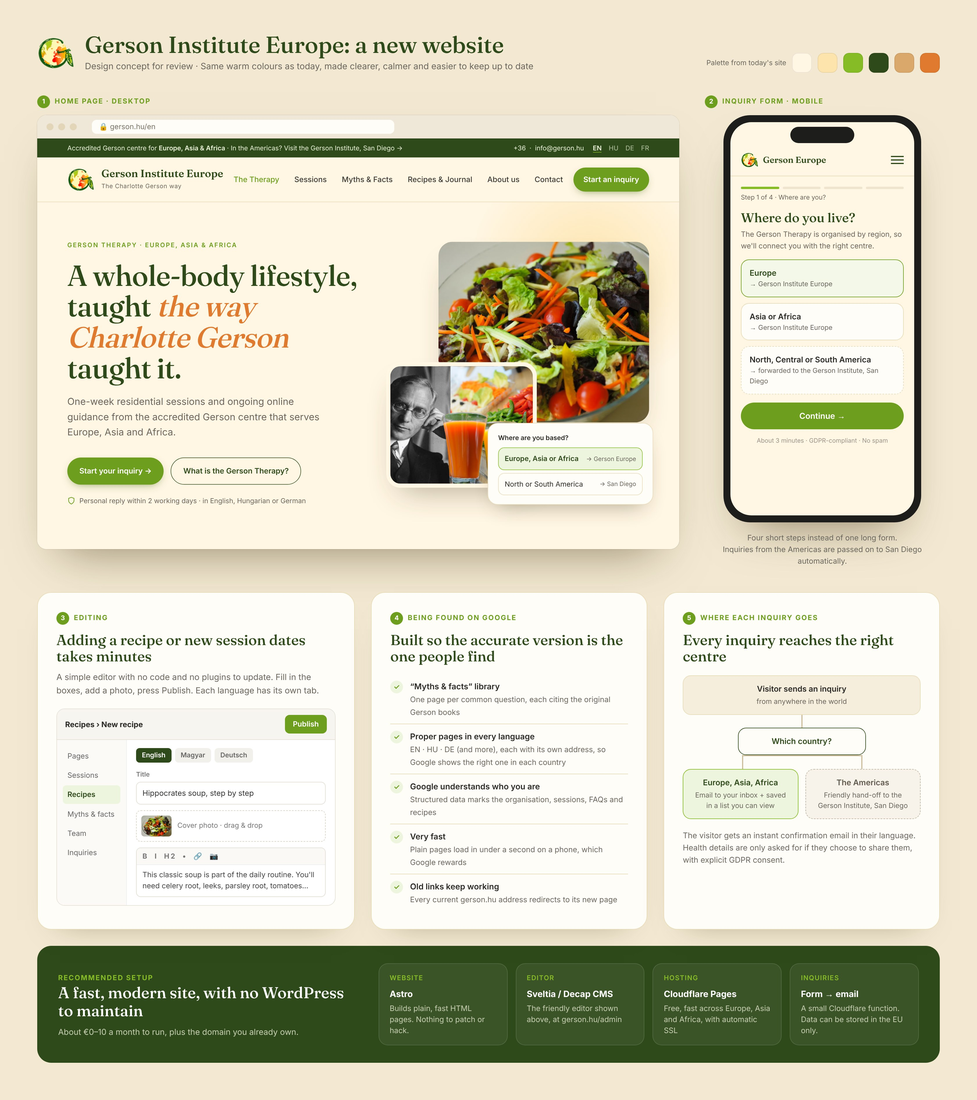
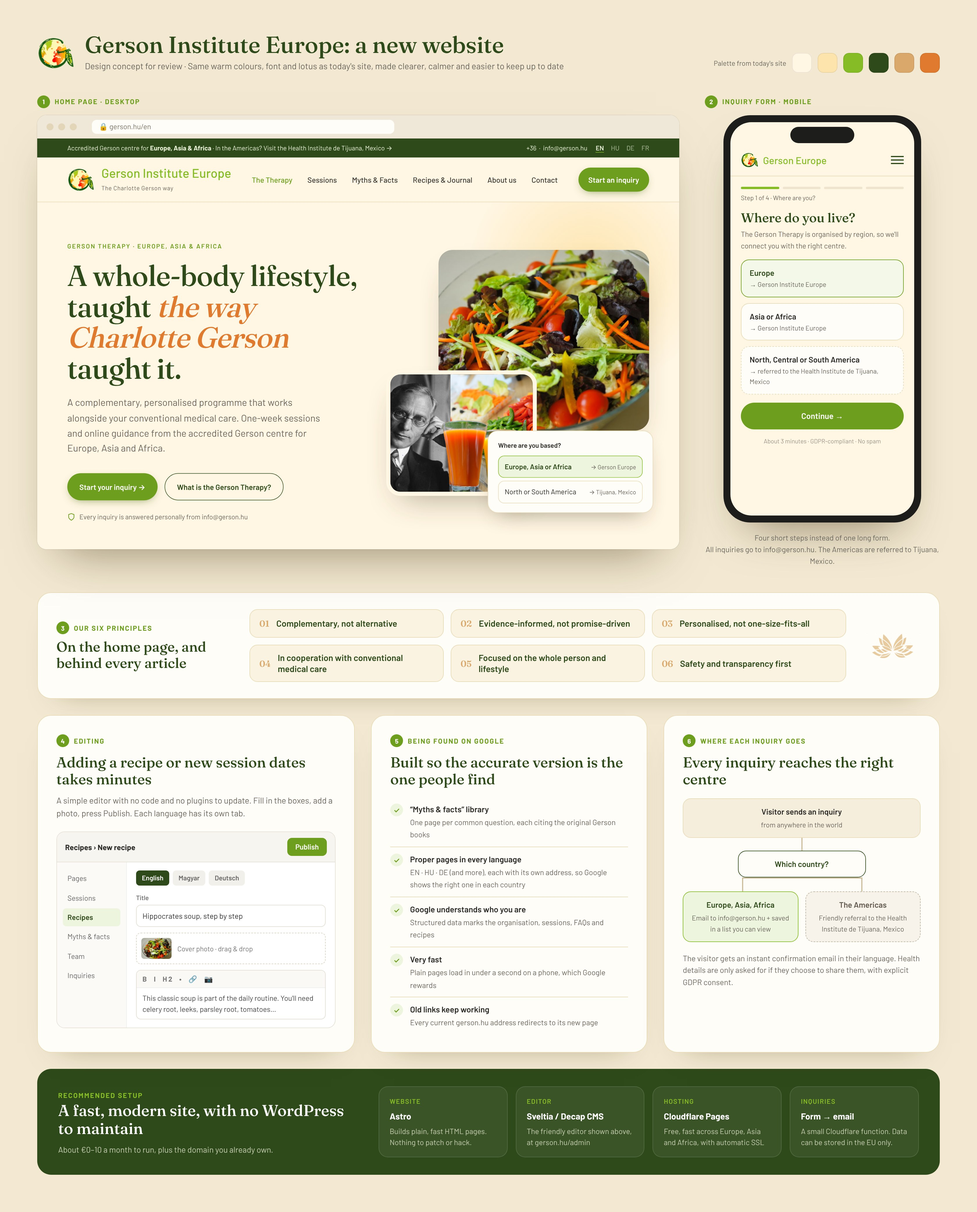
Concept: add six guiding principles, sessions block, Tijuana routing
- New 'Our principles' section on the home page and board
- Inquiries go to info@gerson.hu; the Americas are referred to the
  Health Institute de Tijuana, Mexico
- Sessions block with what's included and admission details
- Body font switched to Barlow to match the current site

Claude-Session: https://claude.ai/code/session_0158u3zLpzMPwJ2PHPRNx5aD

Changed region(s): [[0.0312, 0.0312, 0.9688, 0.9672], [0.8438, 0.0312, 0.9688, 0.0624]]

diff --git a/concept/home.html b/concept/home.html
@@ -4,9 +4,9 @@
 <meta charset="utf-8">
 <meta name="viewport" content="width=device-width, initial-scale=1">
 <title>Gerson Institute Europe — The Gerson Therapy, the Charlotte Gerson way</title>
-<meta name="description" content="The accredited Gerson centre for Europe, Asia and Africa. One-week residential sessions and online guidance, following the Gerson Therapy as taught by Charlotte Gerson.">
+<meta name="description" content="The accredited Gerson centre for Europe, Asia and Africa. A complementary, personalised Gerson lifestyle programme, as taught by Charlotte Gerson, in cooperation with conventional medical care.">
 <link rel="preconnect" href="https://fonts.googleapis.com">
-<link href="https://fonts.googleapis.com/css2?family=Fraunces:opsz,wght@9..144,400;9..144,500;9..144,600&family=Inter:wght@400;500;600&display=swap" rel="stylesheet">
+<link href="https://fonts.googleapis.com/css2?family=Fraunces:opsz,wght@9..144,400;9..144,500;9..144,600&family=Barlow:wght@400;500;600;700&display=swap" rel="stylesheet">
 <style>
   :root{
     --cream:#FFF6E3;      /* current site background, softened */
@@ -24,7 +24,7 @@
     --white:#FFFDF8;
   }
   *{box-sizing:border-box;margin:0;padding:0}
-  body{background:var(--cream);color:var(--ink);font:16px/1.6 Inter,system-ui,sans-serif;width:1280px}
+  body{background:var(--cream);color:var(--ink);font:16.5px/1.6 Barlow,system-ui,sans-serif;width:1280px}
   h1,h2,h3,.serif{font-family:Fraunces,Georgia,serif;font-weight:500;letter-spacing:-.01em}
   a{color:inherit;text-decoration:none}
   .wrap{width:1160px;margin:0 auto}
@@ -43,7 +43,7 @@
   nav .wrap{display:flex;align-items:center;justify-content:space-between;height:88px}
   .brand{display:flex;align-items:center;gap:14px}
   .brand img{width:54px;height:54px}
-  .brand b{font-family:Fraunces,serif;font-weight:600;font-size:21px;color:var(--leaf-deep);display:block;line-height:1.1}
+  .brand b{font-family:Barlow,sans-serif;font-weight:500;font-size:25px;color:var(--leaf-bright);display:block;line-height:1.1}
   .brand small{font-size:12px;color:var(--muted);letter-spacing:.04em}
   .menu{display:flex;gap:30px;font-size:15px;font-weight:500;color:#3d3b35}
   .menu .act{color:var(--leaf)}
@@ -83,6 +83,32 @@
   .sec-head h2{font-size:42px;line-height:1.1;color:var(--leaf-deep);margin-top:10px;max-width:640px}
   .sec-head p{max-width:420px;color:var(--muted)}
 
+  /* principles */
+  .principles{padding:84px 0 70px;text-align:center}
+  .lotus-mark{width:150px;display:block;margin:0 auto 14px}
+  .p-head h2{font-size:42px;line-height:1.1;color:var(--leaf-deep);margin:10px 0 10px}
+  .p-head p{color:var(--muted);margin-bottom:44px}
+  .pgrid{display:grid;grid-template-columns:repeat(3,1fr);gap:20px;text-align:left}
+  .pr{display:flex;gap:18px;background:var(--white);border:1px solid var(--line);border-radius:22px;padding:26px 26px}
+  .pr h3{font-size:20px;line-height:1.2;color:var(--leaf-deep);margin-bottom:6px}
+  .pr p{font-size:15px;color:var(--muted)}
+
+  /* sessions */
+  .sessions .wrap{display:grid;grid-template-columns:1fr 1fr;gap:64px;align-items:center}
+  .sessions h2{font-size:40px;line-height:1.1;color:var(--leaf-deep);margin:10px 0 18px}
+  .s-img{position:relative;height:560px;border-radius:30px;overflow:hidden;box-shadow:0 30px 60px -34px rgba(60,50,20,.5)}
+  .s-img img{width:100%;height:100%;object-fit:cover}
+  .s-badge{position:absolute;left:22px;bottom:22px;background:var(--white);border-radius:16px;padding:14px 18px;font-size:14px;color:var(--muted)}
+  .s-badge b{display:block;color:var(--leaf-deep);font-size:16px}
+  .incl{list-style:none}
+  .incl li{padding:9px 0 9px 32px;position:relative;border-bottom:1px solid var(--line);font-size:16px}
+  .incl li:before{content:"✓";position:absolute;left:0;top:9px;width:20px;height:20px;border-radius:50%;background:#EEF5DF;color:var(--leaf);font-size:12px;font-weight:700;display:grid;place-items:center}
+  .adm{display:grid;grid-template-columns:repeat(3,1fr);gap:12px;margin-top:22px}
+  .adm div{background:var(--sand-soft);border:1px solid var(--line);border-radius:16px;padding:14px 16px}
+  .adm small{display:block;font-size:11.5px;font-weight:700;letter-spacing:.1em;text-transform:uppercase;color:var(--lotus)}
+  .adm b{display:block;font-size:18px;color:var(--leaf-deep)}
+  .adm span{font-size:13px;color:var(--muted)}
+
   /* pillars */
   .pillars{display:grid;grid-template-columns:repeat(4,1fr);gap:20px}
   .pillar{background:var(--white);border:1px solid var(--line);border-radius:22px;padding:28px 24px}
@@ -97,7 +123,7 @@
   .charlotte h2{font-size:40px;line-height:1.12;margin:12px 0 18px}
   .charlotte p{color:#D6D9C6}
   .quote{font-family:Fraunces,serif;font-style:italic;font-size:25px;line-height:1.4;border-left:3px solid var(--lotus);padding-left:26px;color:#FFF6E3}
-  .quote small{display:block;font-family:Inter;font-style:normal;font-size:13px;color:#B9C1A6;margin-top:14px;letter-spacing:.03em}
+  .quote small{display:block;font-family:Barlow;font-style:normal;font-size:13px;color:#B9C1A6;margin-top:14px;letter-spacing:.03em}
   .books{background:rgba(255,246,227,.06);border:1px solid rgba(255,255,255,.14);border-radius:24px;padding:30px 32px}
   .books h4{font-family:Fraunces,serif;font-weight:500;font-size:22px;color:#FFF6E3;margin-bottom:18px}
   .book{display:flex;gap:16px;align-items:center;padding:14px 0;border-top:1px solid rgba(255,255,255,.1)}
@@ -167,7 +193,7 @@
 <body>
 
 <div class="topbar"><div class="wrap">
-  <div>Accredited Gerson centre for <b>Europe, Asia &amp; Africa</b> · In the Americas? Visit the Gerson Institute, San Diego →</div>
+  <div>Accredited Gerson centre for <b>Europe, Asia &amp; Africa</b> · In the Americas? Visit the Health Institute de Tijuana, Mexico →</div>
   <div class="langs">+36 &nbsp;·&nbsp; info@gerson.hu <span class="on">EN</span><span>HU</span><span>DE</span><span>FR</span></div>
 </div></div>
 
@@ -183,9 +209,9 @@
     <div>
       <span class="eyebrow">Gerson Therapy · Europe, Asia &amp; Africa</span>
       <h1>A whole-body lifestyle, taught <em>the way Charlotte Gerson</em> taught it.</h1>
-      <p class="lead">One-week residential sessions and ongoing online guidance from the accredited Gerson centre that serves Europe, Asia and Africa.</p>
+      <p class="lead">A complementary, personalised programme that works alongside your conventional medical care. One-week sessions and online guidance from the accredited Gerson centre for Europe, Asia and Africa.</p>
       <div class="ctas"><a class="btn btn-primary">Start your inquiry →</a><a class="btn btn-ghost">What is the Gerson Therapy?</a></div>
-      <div class="note"><svg width="16" height="16" viewBox="0 0 24 24" fill="none" stroke="#6E9E1E" stroke-width="2"><path d="M12 22s8-4 8-10V5l-8-3-8 3v7c0 6 8 10 8 10z"/></svg>Personal reply within 2 working days · in English, Hungarian or German</div>
+      <div class="note"><svg width="16" height="16" viewBox="0 0 24 24" fill="none" stroke="#6E9E1E" stroke-width="2"><path d="M12 22s8-4 8-10V5l-8-3-8 3v7c0 6 8 10 8 10z"/></svg>Every inquiry is answered personally from info@gerson.hu</div>
     </div>
     <div class="hero-art">
       <div class="ph a"><img src="assets/Gerson-salad.jpg" alt=""></div>
@@ -193,7 +219,7 @@
       <div class="route">
         <h4>Where are you based?</h4>
         <div class="opt on">Europe, Asia or Africa <small>→ Gerson Europe</small></div>
-        <div class="opt">North or South America <small>→ San Diego</small></div>
+        <div class="opt">North or South America <small>→ Tijuana, Mexico</small></div>
       </div>
     </div>
   </div>
@@ -206,7 +232,20 @@
   <div><span class="ic"><svg viewBox="0 0 24 24"><circle cx="12" cy="12" r="10"/><path d="M2 12h20M12 2a15 15 0 0 1 0 20M12 2a15 15 0 0 0 0 20"/></svg></span><p><b>Three continents</b><span>Europe · Asia · Africa</span></p></div>
 </div></div>
 
-<section><div class="wrap">
+<section class="principles"><div class="wrap">
+  <img class="lotus-mark" src="assets/Hezagolo-wbg.png" alt="">
+  <div class="p-head"><span class="eyebrow">Our principles</span><h2>Six commitments behind everything we do</h2><p>They shape every session, every article on this site and every answer we give.</p></div>
+  <div class="pgrid">
+    <div class="pr"><span class="ic"><svg viewBox="0 0 24 24"><path d="M12 5v14M5 12h14"/></svg></span><div><h3>Complementary, not alternative</h3><p>The Gerson lifestyle is offered alongside the care your doctors recommend, never as a replacement for it.</p></div></div>
+    <div class="pr"><span class="ic"><svg viewBox="0 0 24 24"><path d="M4 19.5A2.5 2.5 0 0 1 6.5 17H20V3H6.5A2.5 2.5 0 0 0 4 5.5z"/><path d="M9 8h7M9 12h5"/></svg></span><div><h3>Evidence-informed, not promise-driven</h3><p>We explain what is known, cite our sources and never promise outcomes.</p></div></div>
+    <div class="pr"><span class="ic"><svg viewBox="0 0 24 24"><circle cx="12" cy="8" r="4"/><path d="M4 21a8 8 0 0 1 16 0"/></svg></span><div><h3>Personalised, not one-size-fits-all</h3><p>Every programme is adapted to the person's health, circumstances and everyday life.</p></div></div>
+    <div class="pr"><span class="ic"><svg viewBox="0 0 24 24"><path d="M8 12h8"/><path d="M7 7H5a5 5 0 0 0 0 10h2M17 7h2a5 5 0 0 1 0 10h-2"/></svg></span><div><h3>In cooperation with conventional medical care</h3><p>We encourage you to keep your doctors informed and involved at every step.</p></div></div>
+    <div class="pr"><span class="ic"><svg viewBox="0 0 24 24"><path d="M12 21C7 17 3 13.5 3 9a4.5 4.5 0 0 1 9-1 4.5 4.5 0 0 1 9 1c0 4.5-4 8-9 12z"/></svg></span><div><h3>Focused on the whole person and lifestyle</h3><p>Food, rest, daily rhythm and emotional wellbeing, not a single symptom.</p></div></div>
+    <div class="pr"><span class="ic"><svg viewBox="0 0 24 24"><path d="M12 22s8-4 8-10V5l-8-3-8 3v7c0 6 8 10 8 10z"/><path d="m9 12 2 2 4-4"/></svg></span><div><h3>Safety and transparency first</h3><p>Clear information about what the programme involves, what it costs and when it may not be suitable.</p></div></div>
+  </div>
+</div></section>
+
+<section style="padding-top:20px"><div class="wrap">
   <div class="sec-head">
     <div><span class="eyebrow">The Gerson Therapy</span><h2>Not a juice cleanse. A complete, structured way of living.</h2></div>
     <p>Dr. Max Gerson developed the therapy in the 1920s–50s. These are its foundations, explained in plain language, with sources for every claim.</p>
@@ -239,6 +278,29 @@
   </div>
 </div></div>
 
+<section class="sessions"><div class="wrap">
+  <div class="s-img"><img src="assets/Office.png" alt="" style="object-position:85% 50%"><div class="s-badge"><b>Next sessions</b>Dates on request · info@gerson.hu</div></div>
+  <div>
+    <span class="eyebrow">One-week sessions</span>
+    <h2>What a one-week session includes</h2>
+    <ul class="incl">
+      <li>An introductory call before you arrive</li>
+      <li>A personal plan, built around your health background</li>
+      <li>All Gerson meals and fresh juices during the week</li>
+      <li>Hands-on classes: juicing, cooking, the daily routine</li>
+      <li>Setting up at home: equipment, shopping, schedule</li>
+      <li>Materials to take home, in your language</li>
+      <li>Follow-up online guidance after the session</li>
+    </ul>
+    <div class="adm">
+      <div><small>Length</small><b>7 days</b><span>+ online follow-up</span></div>
+      <div><small>Languages</small><b>HU · EN · DE</b><span>more on request</span></div>
+      <div><small>Pricing</small><b>On request</b><span>clear, written quote</span></div>
+    </div>
+    <div style="margin-top:28px;display:flex;gap:14px"><a class="btn btn-primary">Ask about dates →</a><a class="btn btn-ghost">Online guidance</a></div>
+  </div>
+</div></section>
+
 <section><div class="wrap">
   <div class="sec-head">
     <div><span class="eyebrow">Myths &amp; facts</span><h2>A lot is said about Gerson. Here's what the sources actually say.</h2></div>
@@ -251,9 +313,9 @@
     <div class="myth"><div class="m"><span class="tag no">Common claim</span><p>“Every programme called ‘Gerson’ follows the same protocol.”</p></div>
       <div class="f"><span class="tag yes">What the sources say</span><p>Many programmes use the name. Accredited centres work to the protocol and training set by the Gerson Institute.</p>
       <div class="src"><svg viewBox="0 0 24 24"><path d="M4 19.5A2.5 2.5 0 0 1 6.5 17H20V3H6.5A2.5 2.5 0 0 0 4 5.5z"/></svg><span>Gerson Institute — licensing &amp; accreditation</span></div></div></div>
-    <div class="myth"><div class="m"><span class="tag no">Common claim</span><p>“You can safely start it on your own from a video.”</p></div>
-      <div class="f"><span class="tag yes">What the sources say</span><p>The therapy is demanding. Charlotte Gerson stressed proper training and support. It should never replace your doctor.</p>
-      <div class="src"><svg viewBox="0 0 24 24"><path d="M4 19.5A2.5 2.5 0 0 1 6.5 17H20V3H6.5A2.5 2.5 0 0 0 4 5.5z"/></svg><span>Gerson, C. &amp; Walker, M. — <i>The Gerson Therapy</i></span></div></div></div>
+    <div class="myth"><div class="m"><span class="tag no">Common claim</span><p>“Choosing Gerson means giving up your doctor.”</p></div>
+      <div class="f"><span class="tag yes">How we work</span><p>Our programme is complementary. It runs alongside conventional medical care, and we encourage you to keep your doctors informed and involved.</p>
+      <div class="src"><svg viewBox="0 0 24 24"><path d="M12 22s8-4 8-10V5l-8-3-8 3v7c0 6 8 10 8 10z"/></svg><span>Gerson Institute Europe — our six principles</span></div></div></div>
   </div>
 </div></section>
 
@@ -263,7 +325,7 @@
     <h2 style="font-size:42px;line-height:1.1;color:var(--leaf-deep);margin-top:10px">From first question to your own kitchen.</h2>
     <div class="steps">
       <div class="step"><span class="n">1</span><div><h4>Send a short inquiry</h4><p>Four quick steps, about 3 minutes. Nothing is shared outside our team.</p></div></div>
-      <div class="step"><span class="n">2</span><div><h4>A personal reply</h4><p>A colleague answers within 2 working days and suggests a call.</p></div></div>
+      <div class="step"><span class="n">2</span><div><h4>A personal reply</h4><p>A colleague replies personally from info@gerson.hu and suggests a call.</p></div></div>
       <div class="step"><span class="n">3</span><div><h4>One-week session or online guidance</h4><p>Learn the daily routine hands-on, with dates that suit you.</p></div></div>
       <div class="step" style="border:0"><span class="n">4</span><div><h4>Ongoing support at home</h4><p>Check-ins, recipes and answers while the lifestyle becomes routine.</p></div></div>
     </div>
@@ -278,7 +340,7 @@
       <div><label>Country</label><div class="field filled">Germany <span>▾</span></div></div>
       <div><label>Preferred language</label><div class="field filled">Deutsch <span>▾</span></div></div>
     </div>
-    <div class="hint">✓ Germany is served by Gerson Institute Europe. (Choosing a country in the Americas forwards you to the Gerson Institute in San Diego.)</div>
+    <div class="hint">✓ Germany is served by Gerson Institute Europe, so your inquiry goes straight to info@gerson.hu. Countries in the Americas are referred to the Health Institute de Tijuana, Mexico.</div>
     <label>What would you like to know? <span style="font-weight:400;color:#9a948a">(optional)</span></label>
     <div class="field" style="height:74px">Session dates, preparing at home, current health situation…</div>
     <div class="consent"><span class="box">✓</span>I agree that Gerson Institute Europe may store this information to answer my inquiry (GDPR). No data is shared with third parties.</div>
@@ -300,12 +362,12 @@
 
 <footer><div class="wrap">
   <div class="grid">
-    <div><div class="brand"><img src="assets/logo.png" alt="" style="background:#FFF6E3;border-radius:50%;padding:4px"><div><b style="color:#fff">Gerson Institute Europe</b><small style="color:#A9B296">Gerson Intézet Európa Kft.</small></div></div><p style="margin-top:18px;max-width:320px">The accredited Gerson centre for Europe, Asia and Africa. In the Americas, please contact the Gerson Institute in San Diego.</p></div>
+    <div><div class="brand"><img src="assets/logo.png" alt="" style="background:#FFF6E3;border-radius:50%;padding:4px"><div><b style="color:#fff;font-size:22px">Gerson Institute Europe</b><small style="color:#A9B296">Gerson Intézet Európa Kft.</small></div></div><p style="margin-top:18px;max-width:320px">The accredited Gerson centre for Europe, Asia and Africa. In the Americas, please contact the Health Institute de Tijuana, Mexico.</p></div>
     <div><h5>The therapy</h5><ul><li>What is it?</li><li>Charlotte Gerson's method</li><li>Myths &amp; facts</li><li>Recipes</li></ul></div>
     <div><h5>Work with us</h5><ul><li>One-week sessions</li><li>Online guidance</li><li>Start an inquiry</li><li>FAQ</li></ul></div>
     <div><h5>Contact</h5><ul><li>info@gerson.hu</li><li>+36 …</li><li>Budapest, Hungary</li><li>EN · HU · DE · FR</li></ul></div>
   </div>
-  <div class="disc">Disclaimer: Gerson Institute Europe is not a medical institution. Information on this website is for educational purposes only and is not a substitute for advice from a doctor or other qualified professional. Results depend on many factors, including a person's current state of health. · © 2026 Gerson Intézet Európa Kft. · Privacy · Cookies · Impressum</div>
+  <div class="disc">Disclaimer: Gerson Institute Europe is not a medical institution. Our programme is complementary to, and never a replacement for, conventional medical care. Information on this website is for educational purposes only and is not a substitute for advice from a doctor or other qualified professional. Results depend on many factors, including a person's current state of health. · © 2026 Gerson Intézet Európa Kft. · Privacy · Cookies · Impressum</div>
 </div></footer>
 
 </body>

diff --git a/concept/board.html b/concept/board.html
@@ -3,11 +3,11 @@
 <head>
 <meta charset="utf-8">
 <title>Gerson Europe Website Concept</title>
-<link href="https://fonts.googleapis.com/css2?family=Fraunces:opsz,wght@9..144,400;9..144,500;9..144,600&family=Inter:wght@400;500;600;700&display=swap" rel="stylesheet">
+<link href="https://fonts.googleapis.com/css2?family=Fraunces:opsz,wght@9..144,400;9..144,500;9..144,600&family=Barlow:wght@400;500;600;700&display=swap" rel="stylesheet">
 <style>
   :root{--cream:#FFF6E3;--sand:#FDE4AD;--leaf:#6E9E1E;--leaf-bright:#86BC25;--leaf-deep:#2F4A1A;--lotus:#D9A86A;--carrot:#E07A2E;--ink:#2B2A26;--muted:#6B675E;--line:#EADBB8;--white:#FFFDF8}
   *{box-sizing:border-box;margin:0;padding:0}
-  body{width:1680px;background:#F3E9D2;font:15px/1.55 Inter,sans-serif;color:var(--ink);padding:56px 64px 64px}
+  body{width:1680px;background:#F3E9D2;font:15.5px/1.55 Barlow,sans-serif;color:var(--ink);padding:56px 64px 64px}
   .serif,h1,h2,h3{font-family:Fraunces,Georgia,serif;font-weight:500}
   .head{display:flex;justify-content:space-between;align-items:end;margin-bottom:36px}
   .head .l{display:flex;gap:18px;align-items:center}
@@ -32,7 +32,7 @@
   .notch{width:110px;height:28px;background:#1d1d1b;border-radius:20px;position:absolute;left:50%;top:8px;transform:translateX(-50%)}
   .m-status{height:44px}
   .m-nav{display:flex;justify-content:space-between;align-items:center;padding:6px 18px 12px;border-bottom:1px solid var(--line)}
-  .m-nav .b{display:flex;gap:8px;align-items:center;font-family:Fraunces,serif;font-weight:600;color:var(--leaf-deep);font-size:15px}
+  .m-nav .b{display:flex;gap:8px;align-items:center;font-family:Barlow,sans-serif;font-weight:500;color:var(--leaf-bright);font-size:17px}
   .m-nav img{width:30px}
   .burger{width:22px;height:14px;border-top:2px solid var(--leaf-deep);border-bottom:2px solid var(--leaf-deep);position:relative}
   .burger:after{content:"";position:absolute;left:0;right:0;top:4px;border-top:2px solid var(--leaf-deep)}
@@ -49,8 +49,17 @@
   .m-foot{font-size:10.5px;color:#9a948a;text-align:center;margin-top:12px}
   .cap{font-size:13px;color:var(--muted);text-align:center;margin-top:16px}
 
+  /* principles strip */
+  .princ{margin-top:44px;background:var(--white);border:1px solid var(--line);border-radius:24px;padding:28px 32px;display:grid;grid-template-columns:300px 1fr 96px;gap:32px;align-items:center;box-shadow:0 24px 50px -40px rgba(60,45,10,.5)}
+  .princ h2{font-size:24px;color:var(--leaf-deep);line-height:1.15}
+  .princ .label{margin-bottom:8px}
+  .pg{display:grid;grid-template-columns:repeat(3,1fr);gap:12px}
+  .pg div{display:flex;gap:12px;align-items:center;background:#FBF3E1;border:1px solid var(--line);border-radius:14px;padding:12px 16px}
+  .pg i{font-style:normal;font-family:Fraunces,serif;font-weight:600;color:var(--lotus);font-size:15px}
+  .pg b{font-weight:600;font-size:15px;line-height:1.25;color:var(--leaf-deep)}
+  .princ img{width:96px}
   /* lower row */
-  .row{display:grid;grid-template-columns:1.15fr 1fr 1fr;gap:28px;margin-top:44px}
+  .row{display:grid;grid-template-columns:1.15fr 1fr 1fr;gap:28px;margin-top:28px}
   .card{background:var(--white);border-radius:24px;padding:30px 32px;border:1px solid var(--line);box-shadow:0 24px 50px -40px rgba(60,45,10,.5)}
   .card h2{font-size:25px;color:var(--leaf-deep);line-height:1.15;margin-bottom:10px}
   .card > p{color:var(--muted);font-size:14.5px}
@@ -108,7 +117,7 @@
 <body>
 
 <div class="head">
-  <div class="l"><img src="assets/logo.png" alt=""><div><h1>Gerson Institute Europe: a new website</h1><p>Design concept for review · Same warm colours as today, made clearer, calmer and easier to keep up to date</p></div></div>
+  <div class="l"><img src="assets/logo.png" alt=""><div><h1>Gerson Institute Europe: a new website</h1><p>Design concept for review · Same warm colours, font and lotus as today's site, made clearer, calmer and easier to keep up to date</p></div></div>
   <div class="swatches"><span>Palette from today's site</span><span class="sw" style="background:#FFF6E3"></span><span class="sw" style="background:#FDE4AD"></span><span class="sw" style="background:#86BC25"></span><span class="sw" style="background:#2F4A1A"></span><span class="sw" style="background:#D9A86A"></span><span class="sw" style="background:#E07A2E"></span></div>
 </div>
 
@@ -132,18 +141,31 @@
         <p>The Gerson Therapy is organised by region, so we'll connect you with the right centre.</p>
         <div class="m-opt on">Europe<small>→ Gerson Institute Europe</small></div>
         <div class="m-opt">Asia or Africa<small>→ Gerson Institute Europe</small></div>
-        <div class="m-opt us">North, Central or South America<small>→ forwarded to the Gerson Institute, San Diego</small></div>
+        <div class="m-opt us">North, Central or South America<small>→ referred to the Health Institute de Tijuana, Mexico</small></div>
         <div class="m-btn">Continue →</div>
         <div class="m-foot">About 3 minutes · GDPR-compliant · No spam</div>
       </div>
     </div></div>
-    <p class="cap">Four short steps instead of one long form.<br>Inquiries from the Americas are passed on to San Diego automatically.</p>
+    <p class="cap">Four short steps instead of one long form.<br>All inquiries go to info@gerson.hu. The Americas are referred to Tijuana, Mexico.</p>
   </div>
+</div>
+
+<div class="princ">
+  <div class="pl"><div class="label"><b>3</b>Our six principles</div><h2>On the home page, and behind every article</h2></div>
+  <div class="pg">
+    <div><i>01</i><b>Complementary, not alternative</b></div>
+    <div><i>02</i><b>Evidence-informed, not promise-driven</b></div>
+    <div><i>03</i><b>Personalised, not one-size-fits-all</b></div>
+    <div><i>04</i><b>In cooperation with conventional medical care</b></div>
+    <div><i>05</i><b>Focused on the whole person and lifestyle</b></div>
+    <div><i>06</i><b>Safety and transparency first</b></div>
+  </div>
+  <img src="assets/Hezagolo-wbg.png" alt="">
 </div>
 
 <div class="row">
   <div class="card">
-    <div class="label"><b>3</b>Editing</div>
+    <div class="label"><b>4</b>Editing</div>
     <h2>Adding a recipe or new session dates takes minutes</h2>
     <p>A simple editor with no code and no plugins to update. Fill in the boxes, add a photo, press Publish. Each language has its own tab.</p>
     <div class="cms">
@@ -161,7 +183,7 @@
   </div>
 
   <div class="card">
-    <div class="label"><b>4</b>Being found on Google</div>
+    <div class="label"><b>5</b>Being found on Google</div>
     <h2>Built so the accurate version is the one people find</h2>
     <ul class="ticks">
       <li><span class="t">✓</span><div><b>“Myths &amp; facts” library</b><span>One page per common question, each citing the original Gerson books</span></div></li>
@@ -173,7 +195,7 @@
   </div>
 
   <div class="card">
-    <div class="label"><b>5</b>Where each inquiry goes</div>
+    <div class="label"><b>6</b>Where each inquiry goes</div>
     <h2>Every inquiry reaches the right centre</h2>
     <div class="flow">
       <div class="node n1">Visitor sends an inquiry<small>from anywhere in the world</small></div>
@@ -181,8 +203,8 @@
       <div class="node n2">Which country?</div>
       <div class="forks"><i></i><i></i></div>
       <div class="split">
-        <div class="node n3">Europe, Asia, Africa<small>Email to your inbox + saved in a list you can view</small></div>
-        <div class="node n4">The Americas<small>Friendly hand-off to the Gerson Institute, San Diego</small></div>
+        <div class="node n3">Europe, Asia, Africa<small>Email to info@gerson.hu + saved in a list you can view</small></div>
+        <div class="node n4">The Americas<small>Friendly referral to the Health Institute de Tijuana, Mexico</small></div>
       </div>
     </div>
     <p style="margin-top:18px;font-size:13.5px;color:var(--muted)">The visitor gets an instant confirmation email in their language. Health details are only asked for if they choose to share them, with explicit GDPR consent.</p>

diff --git a/concept/README.md b/concept/README.md
@@ -14,11 +14,26 @@ Static design mockups for review, made before any real build work starts.
 | Site | Astro (static) | Fast plain-HTML pages, built-in i18n routing, nothing to patch |
 | Editing | Sveltia CMS (Decap-compatible), at `/admin` | Form-based editor, one tab per language, content stored as files in this repo |
 | Hosting | Cloudflare Pages | Free tier, global CDN, automatic HTTPS, preview URL for every change |
-| Inquiry form | Cloudflare Pages Function → email (+ optional D1 storage, EU jurisdiction) | Routes Americas to the Gerson Institute (San Diego), everything else to the Europe inbox |
+| Inquiry form | Cloudflare Pages Function → email to info@gerson.hu (+ optional D1 storage, EU jurisdiction) | Europe, Asia and Africa go to info@gerson.hu; the Americas are referred to the Health Institute de Tijuana, Mexico |
+
+## Guiding principles (shown on the home page)
+
+1. Complementary, not alternative.
+2. Evidence-informed, not promise-driven.
+3. Personalised, not one-size-fits-all.
+4. In cooperation with conventional medical care.
+5. Focused on the whole person and lifestyle.
+6. Safety and transparency first.
+
+## Design references
+
+- Look and feel: the current gerson.hu (cream and sand, leaf green, lotus mark, Barlow typeface)
+- Structure of the Sessions block ("what's included" plus admission details): borrowed from the
+  [Health Institute de Tijuana](https://gerson.org/health-institute-de-tijuana/) page, not its look
 
 ## To confirm before building
 
-- Text marked as placeholder: phone number, address, reply-time promise, session details
+- Placeholders: phone number, address, the "what a one-week session includes" list, length, languages and pricing
 - A higher-resolution logo file (the current one is 109×109 px)
 - Accreditation wording, agreed with the Gerson Institute
 - Which languages go live first (EN / HU / DE proposed)
